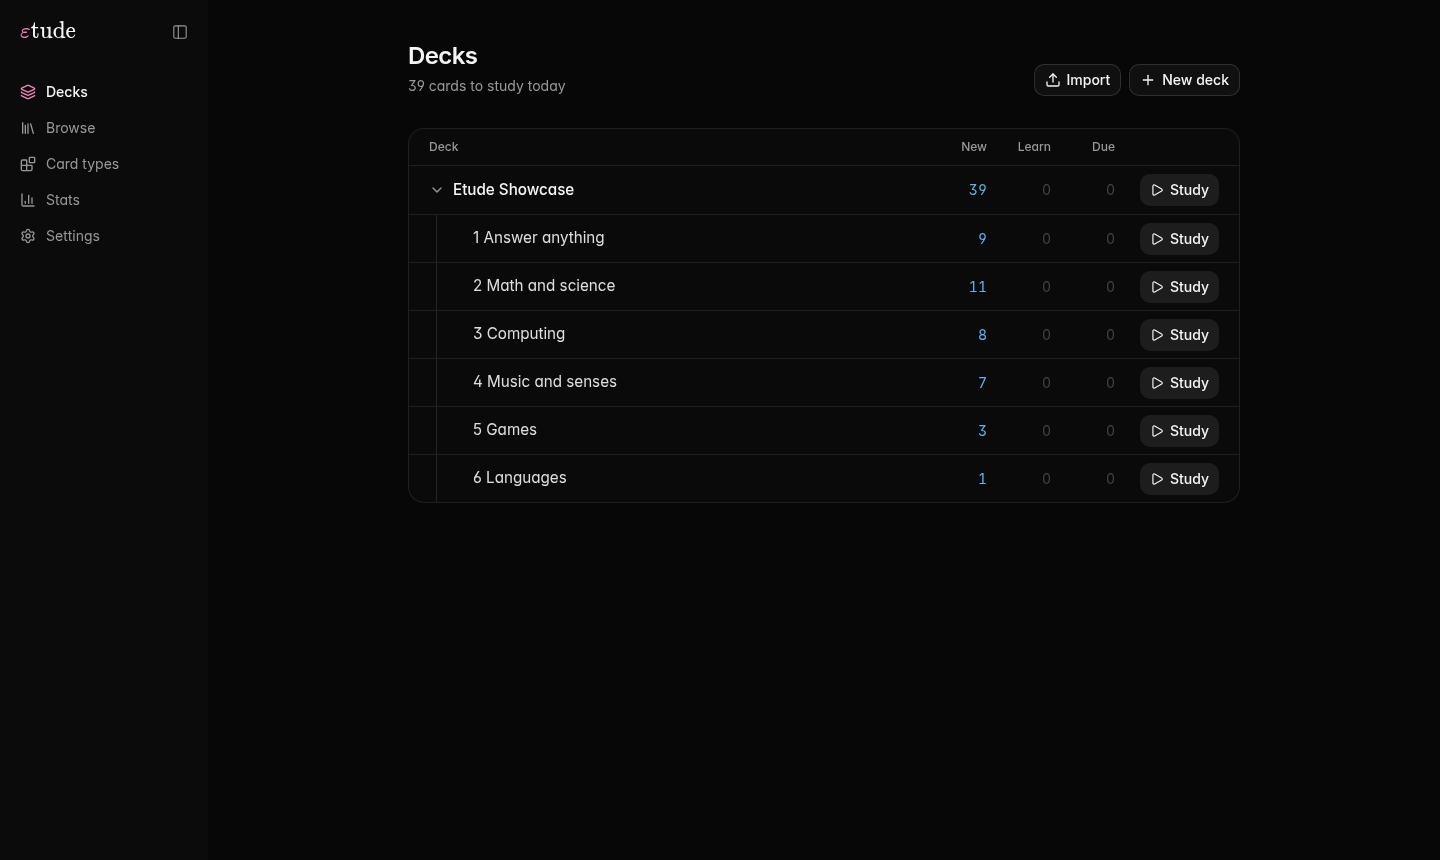
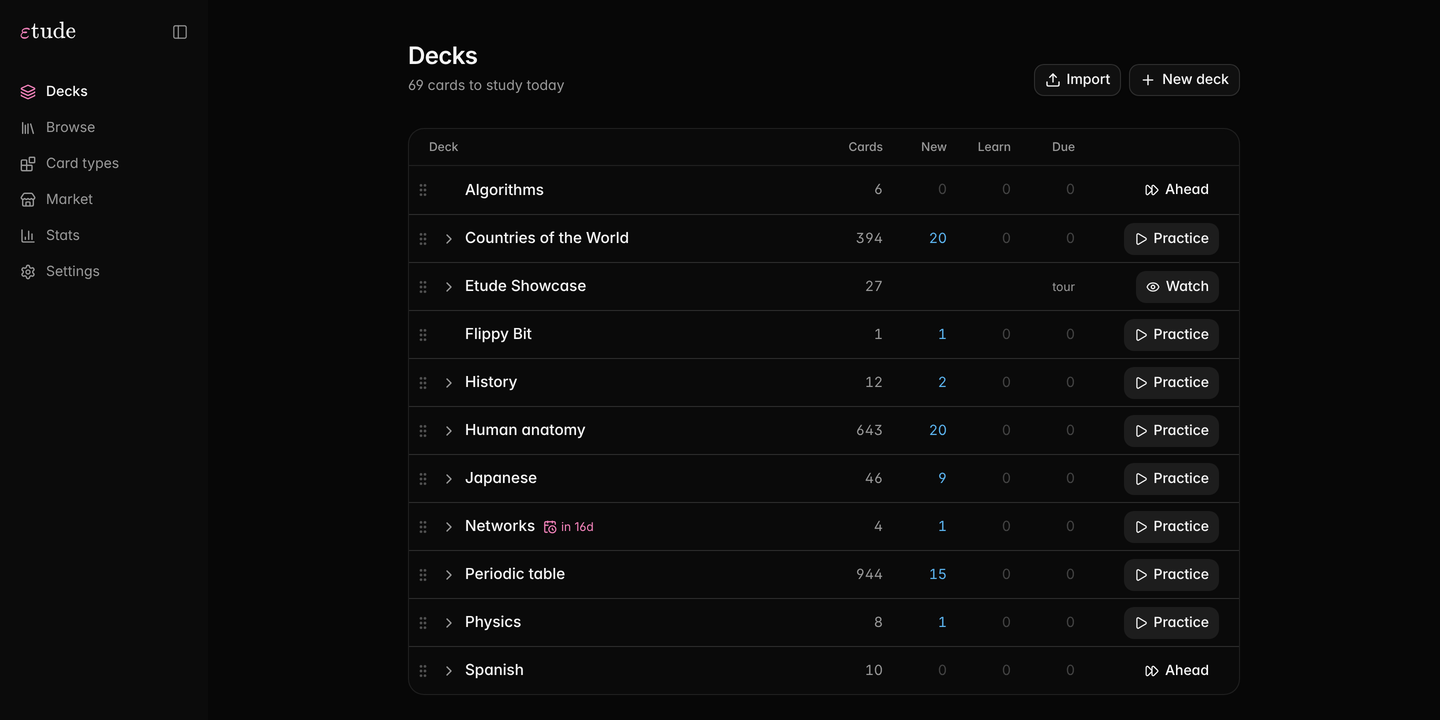
docs: README shows the Market decks, schedulers and the new Stats, with fresh screenshots

diff --git a/README.md b/README.md
@@ -12,6 +12,8 @@ Etude is a self-hosted spaced-repetition app where every card type is a small pr
 
 ![Browse: search, preview and edit, with a chess card open](docs/screenshots/browse.png)
 
+![Stats: recall now, true retention, streak, and what you'd forget if you stopped today](docs/screenshots/stats.png)
+
 ## Why another flashcard app
 
 Classic flashcards test recognition: you see the front, think of the back, flip the card and judge yourself. That works for vocabulary. It works badly for most of what people actually study, where the skill is doing something: computing, deriving, tracing an algorithm, explaining why. Etude keeps what makes spaced repetition work and changes what a card is.
@@ -84,6 +86,30 @@ The pack also has ear training (name the interval you hear), regexes with live t
 etude pack import examples/showcase.pack.json
 ```
 
+## Decks from the Market
+
+Whole decks are built the same way, and the [Market](https://github.com/Zibhelina/etude-market) installs them in one click. These are some of the first ones:
+
+<table>
+<tr>
+<td width="33%" valign="top">
+<p><b>Countries of the world.</b> All 197 countries in one subdeck per continent, on a real map with zoom and pan. Name the highlighted country, or find the one that's named. Names in English, Portuguese, Spanish and French count, typos too, and a wrong pick tells you if it was a neighbour.</p>
+<img src="docs/screenshots/market/countries.png" alt="Brazil highlighted on a map of South America, answered correctly">
+</td>
+<td width="33%" valign="top">
+<p><b>The periodic table.</b> All 118 elements, each asked eight ways: symbol, name, find it on a blank table, name a lit cell, atomic number and position, mass, family and block, electron configuration.</p>
+<img src="docs/screenshots/market/periodic-table.png" alt="Finding iron on the periodic table, with its tile and electron configuration">
+</td>
+<td width="33%" valign="top">
+<p><b>Flippy Bit.</b> One card that's a whole arcade game. Invaders fall carrying a hex number and you flip eight bits to shoot them down before they land. It runs on the drill scheduler, so it never runs out and every run is kept.</p>
+<img src="docs/screenshots/market/flippy-bit.png" alt="Flippy Bit: hex invaders falling over a city, with eight bits to flip">
+</td>
+</tr>
+</table>
+
+The Market also has a Morse code deck, the Showcase, single card types and 22 themes, including Catppuccin, Gruvbox, Nord, Tokyo Night, Rosé Pine and Dracula.
+
+
 ## What you can do with it
 
 - **Prepare for an exam.** Put the course in a deck, set the exam date as its deadline and study every day. No card is scheduled after the deadline, and cards you already know still get one last look before it. The Stats page forecasts how many reviews are left each day until then.
@@ -93,6 +119,7 @@ etude pack import examples/showcase.pack.json
 - **Draw your answer.** Write kanji or hanzi by hand, sketch a graph, a circuit or a molecule, and a vision model grades it.
 - **Learn skills that aren't text.** Music, chess, algorithms and history become cards you play, move, tap and drag, as in the gallery above. If the skill you want isn't there, a card type is a web page, so you can build it.
 - **Let an agent make your cards.** Give an agent your notes and the bundled [skill](skill/SKILL.md). It writes a pack, validates it with `etude pack check`, imports it, and later reads `etude stats weak` to see which topics you keep failing.
+- **Train a skill you measure.** Put a deck on the `drill` scheduler and a card comes back as often as you want, with no rating buttons. A typing test keeps your WPM and accuracy from every run, and Stats charts them over time.
 - **Get quizzed in a chat.** An agent can run a study session without the web app: `etude study next` returns the card and how to answer it, and `etude study answer` grades and schedules it.
 - **Study from anywhere on your own server.** Run Etude on your computer and open it from your phone or tablet; the layout is made for phones too. A compact study view at `/embed` fits inside other apps.
 
@@ -101,20 +128,28 @@ etude pack import examples/showcase.pack.json
 - **Programmable card types.** Eleven built-in types ship as editable files: basic, typed answer, cloze, numeric, multiple choice, match, order, free answer, math, code and drawing. Custom types are written the same way and edited in the app with a live preview.
 - **Four kinds of grader.** `self` (you rate), `script` (checked by code, with partial credit), `ai` (a decision model plus feedback) and `hybrid` (a script that hands the cases it can't decide to the AI). Grading instructions cascade from the item's rubric through its tags, decks and type.
 - **AI providers you choose.** Sign in with ChatGPT to grade with your Plus or Pro plan, or use an API key. The API defaults use OpenRouter: `liquid/d1-ultra` for the verdict, a fast chat model for feedback and a vision model for drawings. Any OpenAI-compatible endpoint works, including a local llama.cpp or Ollama server. AI stays off until you add a key.
-- **FSRS-6 scheduling** with learning steps, fuzz, per-deck daily limits, new and review ordering, sibling burying, a suggested rating from the grade, undo, and replaying history after a settings change.
+- **FSRS-6 scheduling** with learning steps, fuzz, per-deck daily limits, new and review ordering, sibling burying, a suggested rating from the grade, undo, and replaying history after a settings change. **Optimize** fits the FSRS weights to your own review history, as in Anki.
+- **Pluggable schedulers.** Each deck picks FSRS, `drill` (for skills you measure), `leitner` (classic boxes) or a `schedule.js` of your own.
+- **Practice ahead** when nothing is due, **bury** a card with one key, and **undo** even after you've moved on to the next card.
 - **Settings that inherit down the deck tree.** A preset on `Physics` applies to `Physics::Waves` unless that deck overrides it.
 - **Exam deadlines** per deck.
+- **A deck tree you can rearrange.** Drag a deck anywhere: onto another deck to put it inside, between rows to reorder it, or out to the top level. Each row shows its total cards next to New, Learn and Due.
+- **Card types in folders**, and card types can ship their own files (3D models, maps, data) once instead of in every card.
+- **Edit for me.** Describe a change to a card and AI proposes the new fields for you to accept. A card type can also hide the verdict after an answer, for cards where Correct means nothing, like a typing test.
 - **A search language** for Browse, filtered study sessions and the CLI.
 - **Packs.** One JSON file carries decks, presets, tags, card types and items. Import is idempotent and keeps review history.
-- **Statistics:** card states, true retention, a review heatmap, the forecast up to a deadline and recall per tag.
+- **Statistics:** recall now against your target, true retention, streaks, a forgetting curve for what happens if you stop today, memory strength, a 24-hour study clock, the forecast up to a deadline and recall per tag. Each scheduler gets its own numbers.
 - **Themes:** six built in (four dark, two light), or your own with CSS variables and extra CSS.
-- **A complete CLI** with more than 100 commands, stable JSON output, a machine-readable catalog (`etude commands`) and a dry run on most commands that change data.
+- **A complete CLI** with more than 140 commands, stable JSON output, a machine-readable catalog (`etude commands`) and a dry run on most commands that change data.
+- **Updates from GitHub in one click.** A pill on Decks says when there are new commits and updates the app in place; `etude update` does the same from a terminal.
 - **Import from Anki.** `.apkg` and `.colpkg` files bring their notetypes, decks, tags, media and review history across; see [docs/anki.md](docs/anki.md).
 - **A market for themes, decks and card types.** The Market tab installs what other people shared from [etude-market](https://github.com/Zibhelina/etude-market), and Publish shares yours as a pull request; see [docs/market.md](docs/market.md).
 
 ## Quick start
 
-Etude needs Node 24 or newer. Node runs the TypeScript sources directly, so the server has no compile step.
+**On a Mac**, download the app from the [latest release](https://github.com/Zibhelina/etude/releases/latest) ([Apple Silicon](https://github.com/Zibhelina/etude/releases/latest/download/Etude-mac-apple-silicon.dmg), [Intel](https://github.com/Zibhelina/etude/releases/latest/download/Etude-mac-intel.dmg)) and drag it to Applications. It has Node inside and opens on the showcase.
+
+**Anywhere else**, Etude needs Node 24 or newer. Node runs the TypeScript sources directly, so the server has no compile step.
 
 ```sh
 git clone https://github.com/Zibhelina/etude.git
@@ -259,14 +294,18 @@ etude <group> <verb> [args] [flags]
   media     copy images, audio and video into the collection's media folder
   tag       hierarchical labels, with grading instructions
   type      card types: fields, template, prepare script and grader
+  scheduler who decides when a card comes back: FSRS, a drill, Leitner boxes or your own script
   study     the queue, presenting a card, submitting answers, ratings, undo
   stats     overview, forecast, recall per tag, weak cards
-  settings  AI providers and models, day start, learn-ahead
+  settings  AI providers and models, day start, learn-ahead, ChatGPT sign-in
   theme     app colors and custom CSS
   pack      import, export, check, new
+  anki      import an .apkg or .colpkg collection
+  market    browse, install and publish themes, decks and card types
   db        backups, integrity, schema version
 
   serve     run the web app and HTTP API
+  update    update this copy from GitHub
   search    find cards with the search language
   commands  every command as JSON: args, flags, defaults, examples, whether it writes
 ```
